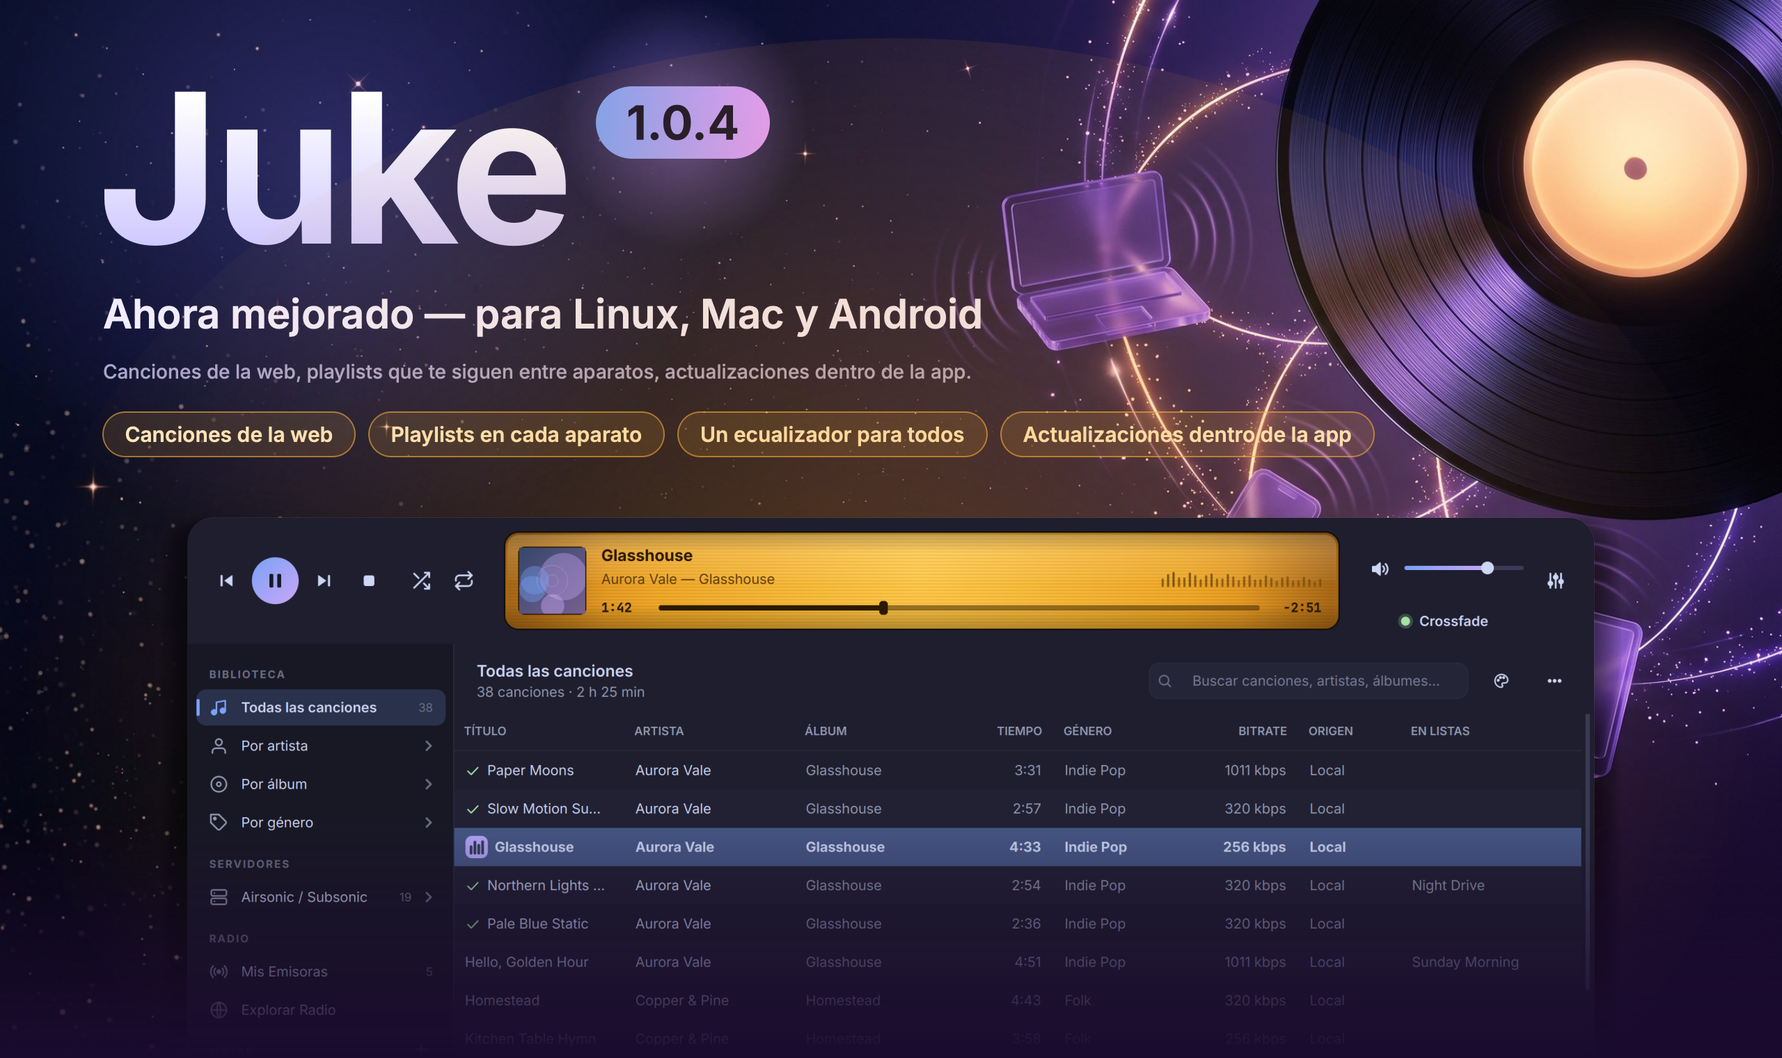
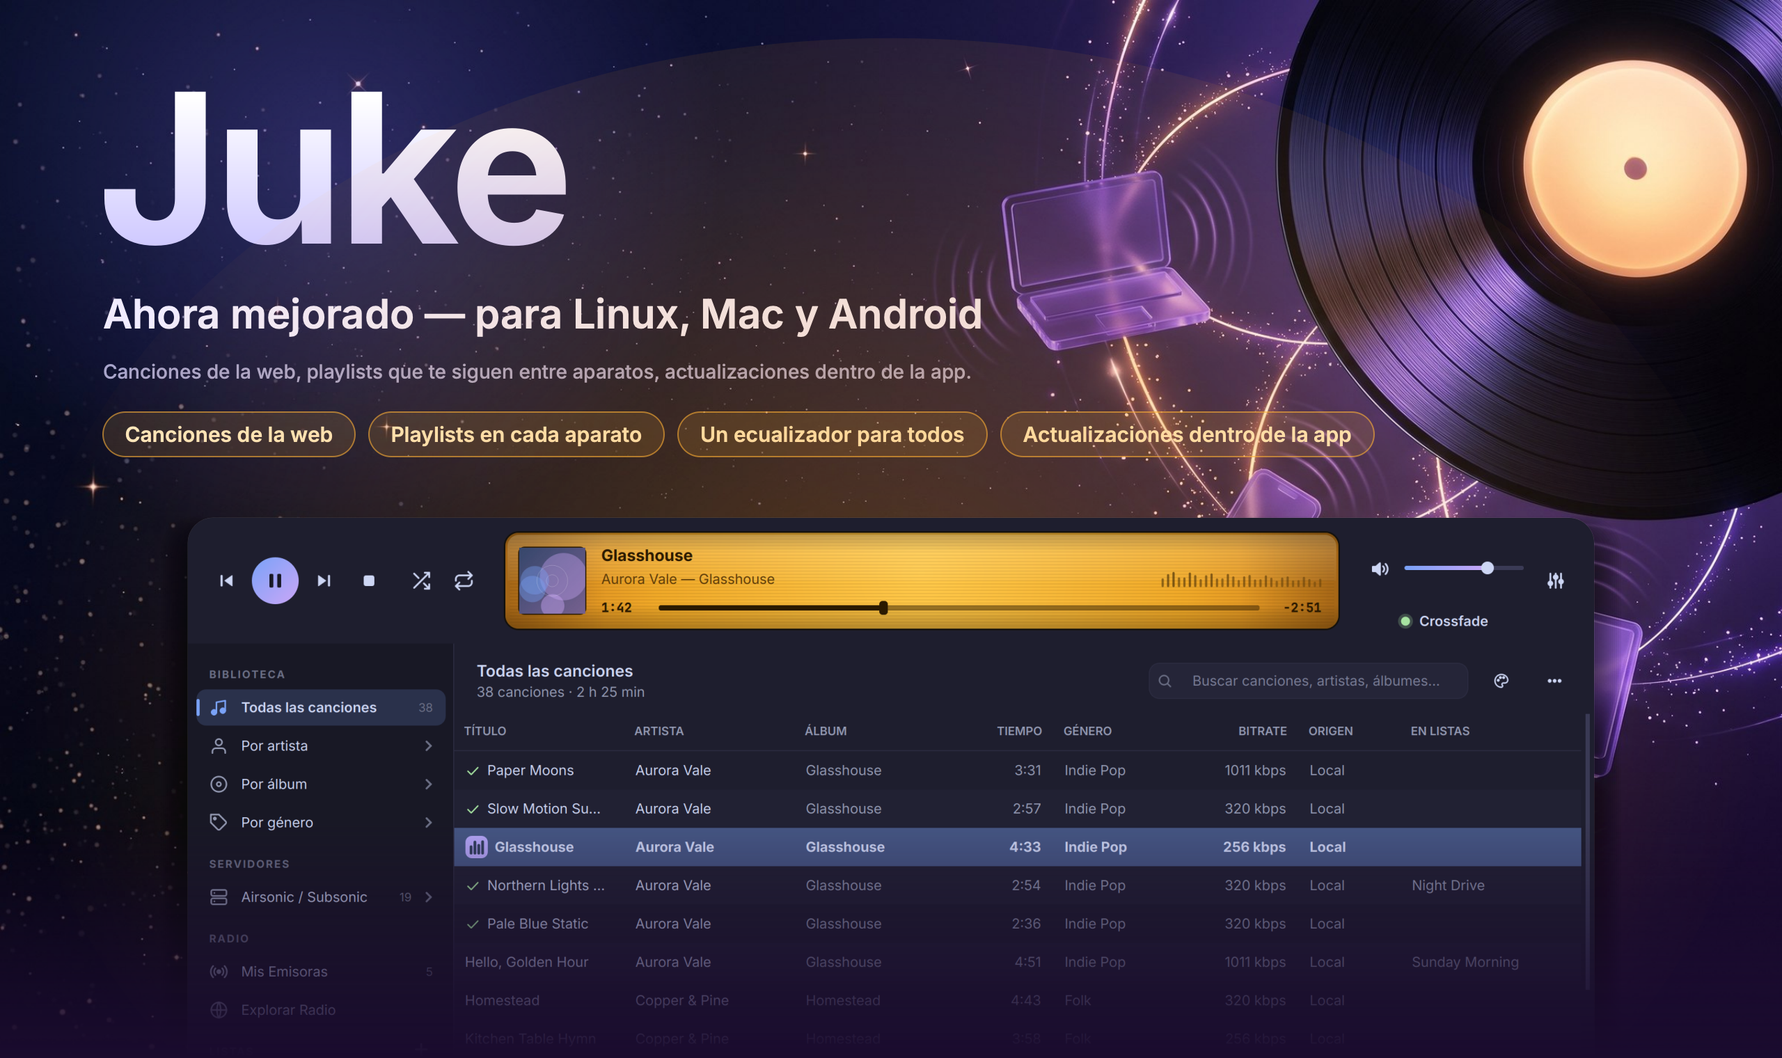
The page and README say just Juke: no version numbers

Changed region(s): [[0.3125, 0.0309, 0.4375, 0.2164]]

diff --git a/docs/manual.html b/docs/manual.html
@@ -3,8 +3,8 @@
 <head>
 <meta charset="utf-8">
 <meta name="viewport" content="width=device-width, initial-scale=1">
-<title>Juke 1.0 — Manual</title>
-<meta name="description" content="The complete manual of Juke 1.0, for Linux, Mac and Android, in English and Spanish.">
+<title>Juke — Manual</title>
+<meta name="description" content="The complete manual of Juke, for Linux, Mac and Android, in English and Spanish.">
 <meta name="theme-color" content="#181825">
 <link rel="icon" type="image/svg+xml" href="assets/juke.svg">
 <style>
@@ -63,7 +63,7 @@ html, body { overflow-x:clip; } .layout > * { min-width:0; } main { overflow-wra
   <aside>
     <details class="toc" open>
       <summary><span class="lang on" data-lang="en">Contents</span><span class="lang" data-lang="es">Contenido</span></summary>
-      <div class="lang on" data-lang="en"><ul><li><a href="#en-c1"><span class="n">1</span> Welcome to Juke 1.0</a><ul><li><a href="#en-c1-what-is-new-in-1-0-4">What is new in 1.0.4</a></li><li><a href="#en-c1-what-is-new-in-1-0">What is new in 1.0</a></li><li><a href="#en-c1-how-this-manual-is-written">How this manual is written</a></li></ul></li>
+      <div class="lang on" data-lang="en"><ul><li><a href="#en-c1"><span class="n">1</span> Welcome to Juke</a><ul><li><a href="#en-c1-what-is-new-in-1-0-4">What is new</a></li><li><a href="#en-c1-what-is-new-in-1-0">What came with the first version</a></li><li><a href="#en-c1-how-this-manual-is-written">How this manual is written</a></li></ul></li>
 <li><a href="#en-c2"><span class="n">2</span> Installing and updating</a><ul><li><a href="#en-c2-installing-on-linux">Installing on Linux</a></li><li><a href="#en-c2-installing-on-mac">Installing on Mac</a></li><li><a href="#en-c2-installing-on-android">Installing on Android</a></li><li><a href="#en-c2-updating">Updating</a></li></ul></li>
 <li><a href="#en-c3"><span class="n">3</span> A tour of the window</a><ul><li><a href="#en-c3-the-song-that-is-playing">The song that is playing</a></li></ul></li>
 <li><a href="#en-c4"><span class="n">4</span> Your music</a><ul><li><a href="#en-c4-the-library">The library</a></li><li><a href="#en-c4-favorites-and-recent-songs">Favorites and recent songs</a></li><li><a href="#en-c4-edit-tags-and-covers">Edit tags and covers</a></li><li><a href="#en-c4-find-duplicates">Find duplicates</a></li></ul></li>
@@ -81,7 +81,7 @@ html, body { overflow-x:clip; } .layout > * { min-width:0; } main { overflow-wra
 <li><a href="#en-c16"><span class="n">16</span> Keyboard shortcuts</a></li>
 <li><a href="#en-c17"><span class="n">17</span> When something goes wrong</a></li>
 <li><a href="#en-c18"><span class="n">18</span> About Juke</a></li></ul></div>
-      <div class="lang" data-lang="es"><ul><li><a href="#es-c1"><span class="n">1</span> Bienvenido a Juke 1.0</a><ul><li><a href="#es-c1-qu-hay-de-nuevo-en-1-0-4">Qué hay de nuevo en 1.0.4</a></li><li><a href="#es-c1-qu-hay-de-nuevo-en-1-0">Qué hay de nuevo en 1.0</a></li><li><a href="#es-c1-cmo-est-escrito-este-manual">Cómo está escrito este manual</a></li></ul></li>
+      <div class="lang" data-lang="es"><ul><li><a href="#es-c1"><span class="n">1</span> Bienvenido a Juke</a><ul><li><a href="#es-c1-qu-hay-de-nuevo-en-1-0-4">Qué hay de nuevo</a></li><li><a href="#es-c1-qu-hay-de-nuevo-en-1-0">Lo que trajo la primera versión</a></li><li><a href="#es-c1-cmo-est-escrito-este-manual">Cómo está escrito este manual</a></li></ul></li>
 <li><a href="#es-c2"><span class="n">2</span> Instalar y actualizar</a><ul><li><a href="#es-c2-instalar-en-linux">Instalar en Linux</a></li><li><a href="#es-c2-instalar-en-mac">Instalar en Mac</a></li><li><a href="#es-c2-instalar-en-android">Instalar en Android</a></li><li><a href="#es-c2-actualizar">Actualizar</a></li></ul></li>
 <li><a href="#es-c3"><span class="n">3</span> Un recorrido por la ventana</a><ul><li><a href="#es-c3-la-cancin-que-suena">La canción que suena</a></li></ul></li>
 <li><a href="#es-c4"><span class="n">4</span> Tu música</a><ul><li><a href="#es-c4-la-biblioteca">La biblioteca</a></li><li><a href="#es-c4-favoritas-y-canciones-recientes">Favoritas y canciones recientes</a></li><li><a href="#es-c4-editar-etiquetas-y-portadas">Editar etiquetas y portadas</a></li><li><a href="#es-c4-buscar-duplicados">Buscar duplicados</a></li></ul></li>
@@ -105,11 +105,11 @@ html, body { overflow-x:clip; } .layout > * { min-width:0; } main { overflow-wra
     <div class="cover"><img src="assets/icon.png" alt="Juke" width="96" height="96">
       <h1><b>Juke</b> 1.0</h1>
       <p class="lang on" data-lang="en">The manual — for Linux and Android</p><p class="lang" data-lang="es">El manual — para Linux y Android</p></div>
-    <div class="lang on" data-lang="en"><section class="chapter" id="en-c1"><p class="chno">1</p><h2>Welcome to Juke 1.0</h2><p>Juke is a music player for your own music: the files on your computer or phone, the songs on your Airsonic / Subsonic server, and internet radio, all in one place that stays fast and light on the battery.</p>
+    <div class="lang on" data-lang="en"><section class="chapter" id="en-c1"><p class="chno">1</p><h2>Welcome to Juke</h2><p>Juke is a music player for your own music: the files on your computer or phone, the songs on your Airsonic / Subsonic server, and internet radio, all in one place that stays fast and light on the battery.</p>
 <p>This manual is a book. The index on the side lists every chapter and section; you can read it from the first page or jump to what you need. It is also inside the app (press <code>F1</code> on Linux and Mac, or <em>Settings ▸ Manual</em> on Android), so it is always with you and in your language.</p>
-<h3 id="en-c1-what-is-new-in-1-0-4">What is new in 1.0.4</h3>
+<h3 id="en-c1-what-is-new-in-1-0-4">What is new</h3>
 <ul><li><strong>YouTube, audio only</strong>, on the computer and on the phone: search a song, or an artist to get the whole repertoire, and play just the audio with no video and no ads. Add songs to playlists and play them later.</li><li><strong>Playlists on Android.</strong> The phone now has playlists, with songs from your music and from YouTube.</li><li><strong>Everything follows you.</strong> Playlists, radio stations and a few settings sync by themselves between your Linux, Mac and Android, deletions included. A copy in a file is there too.</li><li><strong>Updates inside the app, on every system.</strong> On a Mac, <em>Update now</em> installs the new Juke by itself, as on Linux and Android. The YouTube part also updates itself.</li></ul>
-<h3 id="en-c1-what-is-new-in-1-0">What is new in 1.0</h3>
+<h3 id="en-c1-what-is-new-in-1-0">What came with the first version</h3>
 <ul><li><strong>Media keys and the desktop's controls.</strong> Play, pause, next and back work from your keyboard, headset and the media widget of your desktop. The volume slider is the computer's own volume, both ways.</li><li><strong>Crossfade.</strong> The next song comes in a few seconds before the current one ends. A light under the volume shows whether it is on.</li><li><strong>An equalizer anyone can use.</strong> Every bar says what it changes, and there are 35 presets.</li><li><strong>Lyrics in any language.</strong> Several free services are searched at once.</li><li><strong>Better playlists.</strong> A song is never added twice, you are told when it is already there, and the same menu takes it out.</li><li><strong>It knows what can play.</strong> Songs on an offline server or a disconnected drive turn grey with a note.</li><li><strong>Marks on the list.</strong> Bars dance beside the song that is playing and a green ✓ marks what already played.</li><li><strong>A manual inside the app</strong>, with an index, in English and Spanish.</li></ul>
 <h3 id="en-c1-how-this-manual-is-written">How this manual is written</h3>
 <p>Words in <em>italics</em> are names you see on screen: menus, buttons, tabs. Keys are written like <code>Ctrl</code> + <code>E</code>. Parts that only apply to one system say so in the title: <strong>Linux</strong> and <strong>Mac</strong> for the computer app, <strong>Android</strong> for the phone and tablet app. Everything else is the same everywhere.</p></section>
@@ -222,11 +222,11 @@ html, body { overflow-x:clip; } .layout > * { min-width:0; } main { overflow-wra
 <section class="chapter" id="en-c18"><p class="chno">18</p><h2>About Juke</h2><p>Juke is made by Vezzu Studio. It is free to use, for any purpose, on as many computers and devices as you own. The source is published so it can be read and checked; the full terms are in the Juke License 1.0. The software of others that Juke includes keeps its own licence, listed in <code>NOTICE.md</code>.</p>
 <p>If Juke is useful to you, you can support it on Ko-fi from the button in the sidebar<span class="il android"> or in <em>Settings</em></span>.</p>
 <p>Thank you for listening.</p></section></div>
-    <div class="lang" data-lang="es"><section class="chapter" id="es-c1"><p class="chno">1</p><h2>Bienvenido a Juke 1.0</h2><p>Juke es un reproductor para tu propia música: los archivos de tu computadora o de tu teléfono, las canciones de tu servidor Airsonic / Subsonic y la radio por internet, todo en un solo lugar que se mantiene rápido y cuida la batería.</p>
+    <div class="lang" data-lang="es"><section class="chapter" id="es-c1"><p class="chno">1</p><h2>Bienvenido a Juke</h2><p>Juke es un reproductor para tu propia música: los archivos de tu computadora o de tu teléfono, las canciones de tu servidor Airsonic / Subsonic y la radio por internet, todo en un solo lugar que se mantiene rápido y cuida la batería.</p>
 <p>Este manual es un libro. El índice del costado lista cada capítulo y cada sección; puedes leerlo desde la primera página o saltar a lo que necesitas. También está dentro de la app (pulsa <code>F1</code> en Linux y Mac, o <em>Ajustes ▸ Manual</em> en Android), así que siempre lo tienes contigo y en tu idioma.</p>
-<h3 id="es-c1-qu-hay-de-nuevo-en-1-0-4">Qué hay de nuevo en 1.0.4</h3>
+<h3 id="es-c1-qu-hay-de-nuevo-en-1-0-4">Qué hay de nuevo</h3>
 <ul><li><strong>YouTube, solo audio</strong>, en la computadora y en el teléfono: busca una canción, o un artista para ver todo su repertorio, y escucha solo el audio, sin video y sin anuncios. Añade canciones a playlists y tócalas después.</li><li><strong>Playlists en Android.</strong> El teléfono ya tiene playlists, con canciones de tu música y de YouTube.</li><li><strong>Todo te sigue.</strong> Playlists, emisoras de radio y algunos ajustes se sincronizan solos entre tu Linux, tu Mac y tu Android, borrados incluidos. También hay una copia en un archivo.</li><li><strong>Actualizaciones dentro de la app, en todos los sistemas.</strong> En una Mac, <em>Actualizar ahora</em> instala la Juke nueva por sí sola, como en Linux y Android. La parte de YouTube también se actualiza sola.</li></ul>
-<h3 id="es-c1-qu-hay-de-nuevo-en-1-0">Qué hay de nuevo en 1.0</h3>
+<h3 id="es-c1-qu-hay-de-nuevo-en-1-0">Lo que trajo la primera versión</h3>
 <ul><li><strong>Teclas multimedia y controles del escritorio.</strong> Reproducir, pausar, siguiente y anterior funcionan desde tu teclado, tus auriculares y el widget multimedia de tu escritorio. El control de volumen es el volumen de la computadora, en ambos sentidos.</li><li><strong>Crossfade.</strong> La siguiente canción entra unos segundos antes de que termine la actual. Una luz bajo el volumen muestra si está activo.</li><li><strong>Un ecualizador que cualquiera puede usar.</strong> Cada barra dice qué cambia, y hay 35 presets.</li><li><strong>Letras en cualquier idioma.</strong> Se buscan en varios servicios gratuitos a la vez.</li><li><strong>Mejores listas.</strong> Una canción nunca se agrega dos veces, te avisa cuando ya está, y el mismo menú la quita.</li><li><strong>Sabe qué se puede reproducir.</strong> Las canciones de un servidor sin conexión o de un disco desconectado se ven en gris con una nota.</li><li><strong>Marcas en la lista.</strong> Unas barras bailan junto a la canción que suena y una ✓ verde marca lo que ya sonó.</li><li><strong>Un manual dentro de la app</strong>, con índice, en español e inglés.</li></ul>
 <h3 id="es-c1-cmo-est-escrito-este-manual">Cómo está escrito este manual</h3>
 <p>Las palabras en <em>cursiva</em> son nombres que ves en pantalla: menús, botones, pestañas. Las teclas se escriben así: <code>Ctrl</code> + <code>E</code>. Las partes que solo valen para un sistema lo dicen en el título: <strong>Linux</strong> y <strong>Mac</strong> para la app de computadora, <strong>Android</strong> para la de teléfono y tableta. Todo lo demás es igual en todas.</p></section>
@@ -348,7 +348,7 @@ let lang = store("juke-lang") || ((navigator.language || "en").startsWith("es") 
 function apply() {
   document.querySelectorAll(".lang").forEach(el => el.classList.toggle("on", el.dataset.lang === lang));
   root.lang = lang; document.getElementById("lang").textContent = lang === "en" ? "ES" : "EN";
-  document.title = lang === "es" ? "Juke 1.0 — Manual" : "Juke 1.0 — Manual";
+  document.title = lang === "es" ? "Juke — Manual" : "Juke — Manual";
 }
 document.getElementById("lang").onclick = () => { lang = lang === "en" ? "es" : "en"; store("juke-lang", lang); apply(); };
 const dark = () => root.dataset.theme !== "light";

diff --git a/docs/index.html b/docs/index.html
@@ -8,22 +8,22 @@
 <meta name="theme-color" content="#0a0618">
 <link rel="icon" type="image/svg+xml" href="assets/juke.svg">
 <meta property="og:type" content="website">
-<meta property="og:title" content="Juke 1.0.4 — now better: Linux, Mac and Android">
+<meta property="og:title" content="Juke — now better: Linux, Mac and Android">
 <meta property="og:description" content="Make playlists with songs from the web and your own music — and play them on Linux, Mac and Android. Playlists that follow you between devices, a 10-band equalizer, Airsonic and internet radio.">
 <meta property="og:site_name" content="Juke">
 <meta property="og:locale" content="en_US">
 <meta property="og:locale:alternate" content="es_ES">
-<meta property="og:image" content="https://vezzulab.github.io/juke/assets/share-104.jpg">
-<meta property="og:image:secure_url" content="https://vezzulab.github.io/juke/assets/share-104.jpg">
+<meta property="og:image" content="https://vezzulab.github.io/juke/assets/share.jpg">
+<meta property="og:image:secure_url" content="https://vezzulab.github.io/juke/assets/share.jpg">
 <meta property="og:image:type" content="image/jpeg">
 <meta property="og:image:width" content="1200">
 <meta property="og:image:height" content="630">
-<meta property="og:image:alt" content="Juke 1.0.4 — now better. A vinyl record and three glass devices: laptop, phone and tablet.">
+<meta property="og:image:alt" content="Juke — now better. A vinyl record and three glass devices: laptop, phone and tablet.">
 <meta property="og:url" content="https://vezzulab.github.io/juke/">
 <meta name="twitter:card" content="summary_large_image">
-<meta name="twitter:title" content="Juke 1.0.4 — now better: Linux, Mac and Android">
+<meta name="twitter:title" content="Juke — now better: Linux, Mac and Android">
 <meta name="twitter:description" content="Make playlists with songs from the web and your own music — and play them on Linux, Mac and Android.">
-<meta name="twitter:image" content="https://vezzulab.github.io/juke/assets/share-104.jpg">
+<meta name="twitter:image" content="https://vezzulab.github.io/juke/assets/share.jpg">
 <style>
 :root {
   --base: #0f0a22; --mantle: #0a0618; --crust: #05040d; --panel: #150e30; --surface: #1f1648; --border: #2c2150;
@@ -236,7 +236,7 @@ footer a { color: var(--sub); text-decoration: none; } footer a:hover { color: v
 <header class="hero" id="top">
   <div class="wrap">
     <img class="logo" src="assets/juke.svg" alt="Juke icon" width="104" height="104">
-    <h1><span>Juke</span><small class="ver">1.0.4</small></h1>
+    <h1><span>Juke</span></h1>
     <p class="lead m-hide" data-i18n="lead">Juke, now better.</p>
     <p class="lead m-only-b" data-i18n="lead_m">Juke, now better.</p>
     <p class="sublead m-only-b" data-i18n="sublead_m">Make playlists with songs from the web and your own music — and they follow you to your computer.</p>
@@ -288,7 +288,7 @@ footer a { color: var(--sub); text-decoration: none; } footer a:hover { color: v
     <h2 data-i18n="f_title">Everything a music player should do — fast.</h2>
     <p class="intro" data-i18n="f_intro">A classic three-pane layout, rebuilt with a dark or light, rounded, Libadwaita-flavoured interface and an audio engine you can tune.</p>
     <div class="fgroup new">
-      <h3 class="gh" data-i18n="g1_t">New in Juke 1.0.4</h3><p class="gp" data-i18n="g1_p">The biggest update so far.</p>
+      <h3 class="gh" data-i18n="g1_t">What's new in Juke</h3><p class="gp" data-i18n="g1_p">The biggest update so far.</p>
       <div class="grid">
       <div class="card"><div class="ico"><svg viewBox="0 0 24 24"><circle cx="12" cy="12" r="9"/><path d="M3 12h18M12 3c3 3 3 15 0 18M12 3c-3 3-3 15 0 18"/></svg></div>
         <h3 data-i18n="c24_t">Songs from the web</h3><p data-i18n="c24_p">Search any song or artist and play just its audio — no video, no ads, nothing downloaded. Search an artist and you get the whole repertoire. Add what you like to a playlist and play it later without searching again.</p></div>
@@ -484,7 +484,7 @@ const T = {
     lead_m: "Juke, ahora mejorado.",
     sublead_m: "Arma tus playlists con canciones de la web y de tu música — y te siguen a tu computadora.",
     lx_show: "¿Usas Linux? Ver la versión para Linux", lx_hide: "Ocultar la versión para Linux",
-    g1_t: "Nuevo en Juke 1.0.4",
+    g1_t: "Novedades de Juke",
     g1_p: "La mayor actualización hasta ahora.",
     c24_t: "Canciones de la web",
     c24_p: "Busca cualquier canción o artista y escucha solo su audio — sin video, sin anuncios y sin descargar nada. Si buscas un artista, sale todo su repertorio. Añade lo que te guste a una playlist y tócala después sin volver a buscar.",

diff --git a/README.es.md b/README.es.md
@@ -1,6 +1,6 @@
 <div align="center">
 
-<img src="assets/hero-es-104.png" alt="Juke 1.0.4 — ahora mejorado: Linux, Mac y Android" width="100%">
+<img src="docs/assets/hero-es.png" alt="Juke — ahora mejorado: Linux, Mac y Android" width="100%">
 
 <br>
 
@@ -13,7 +13,6 @@ Arma tus playlists con canciones de la web y de tu música — y tócalas en Lin
 
 <br>
 
-![Versión](https://img.shields.io/badge/versi%C3%B3n-1.0.4-cba6f7?style=for-the-badge)
 ![Linux](https://img.shields.io/badge/plataforma-Linux-7aa2f7?style=for-the-badge&logo=linux&logoColor=white)
 ![Mac](https://img.shields.io/badge/plataforma-macOS-cba6f7?style=for-the-badge&logo=apple&logoColor=white)
 ![Android](https://img.shields.io/badge/plataforma-Android-7aa2f7?style=for-the-badge&logo=android&logoColor=white)
@@ -24,7 +23,7 @@ Arma tus playlists con canciones de la web y de tu música — y tócalas en Lin
 
 <br>
 
-## Novedades de la 1.0.4
+## Novedades
 
 - **Actualización de seguridad.** Actualizaciones y descargas más seguras, conexión segura por defecto con los servidores de internet y sincronización más estricta. [Detalles en las notas de la versión](https://github.com/vezzulab/juke/releases/latest).
 - **Canciones de la web.** Busca cualquier canción o artista y escucha solo su audio — sin video, sin anuncios y sin descargar nada. Si buscas un artista, sale todo su repertorio. Añade lo que te guste a una playlist y tócala después sin volver a buscar. En Linux, Mac y Android.
@@ -49,7 +48,7 @@ Necesita Linux x86_64 con glibc 2.35 o más nueva (Ubuntu 22.04, Debian 12, Fedo
 
 Juke no está firmado con un certificado de desarrollador de Apple de pago, así que la primera vez macOS dice que no puede verificar la app. Abre *Ajustes del Sistema ▸ Privacidad y seguridad*, baja hasta *Seguridad* y pulsa **Abrir de todos modos** junto a Juke. Solo se hace una vez. Desde la terminal: `xattr -dr com.apple.quarantine /Applications/Juke.app`.
 
-**Android** — descarga `Juke-1.0.4.apk` de la misma página (Android 8 o más nuevo).
+**Android** — descarga el archivo `.apk` de Juke de la misma página (Android 8 o más nuevo).
 
 Juke te avisa cuando sale una versión nueva, o pulsa *Buscar actualizaciones…* en el menú o en *Ajustes ▸ General*.
 

diff --git a/README.md b/README.md
@@ -1,6 +1,6 @@
 <div align="center">
 
-<img src="assets/hero-104.png" alt="Juke 1.0.4 — now better: Linux, Mac and Android" width="100%">
+<img src="docs/assets/hero.png" alt="Juke — now better: Linux, Mac and Android" width="100%">
 
 <br>
 
@@ -13,7 +13,6 @@ Make playlists with songs from the web and your own music — and play them on L
 
 <br>
 
-![Version](https://img.shields.io/badge/version-1.0.4-cba6f7?style=for-the-badge)
 ![Linux](https://img.shields.io/badge/platform-Linux-7aa2f7?style=for-the-badge&logo=linux&logoColor=white)
 ![Mac](https://img.shields.io/badge/platform-macOS-cba6f7?style=for-the-badge&logo=apple&logoColor=white)
 ![Android](https://img.shields.io/badge/platform-Android-7aa2f7?style=for-the-badge&logo=android&logoColor=white)
@@ -24,7 +23,7 @@ Make playlists with songs from the web and your own music — and play them on L
 
 <br>
 
-## New in 1.0.4
+## What's new
 
 - **Security update.** Safer updates and downloads, a secure connection by default for servers on the internet, and stricter sync. [Details in the release notes](https://github.com/vezzulab/juke/releases/latest).
 - **Songs from the web.** Search any song or artist and play just its audio — no video, no ads, nothing downloaded. Search an artist and you get the whole repertoire. Add what you like to a playlist and play it later without searching again. On Linux, Mac and Android.
@@ -49,7 +48,7 @@ Needs x86_64 Linux with glibc 2.35 or newer (Ubuntu 22.04, Debian 12, Fedora 36+
 
 Juke is not signed with a paid Apple developer certificate, so the first time macOS says it cannot check the app. Open *System Settings ▸ Privacy & Security*, scroll down to *Security* and press **Open Anyway** next to Juke. You only do it once. From the terminal: `xattr -dr com.apple.quarantine /Applications/Juke.app`.
 
-**Android** — download `Juke-1.0.4.apk` from the same page (Android 8 or newer).
+**Android** — download the Juke `.apk` file from the same page (Android 8 or newer).
 
 Juke tells you when a new version is out, or press *Check for updates…* in the menu or in *Settings ▸ General*.
 
